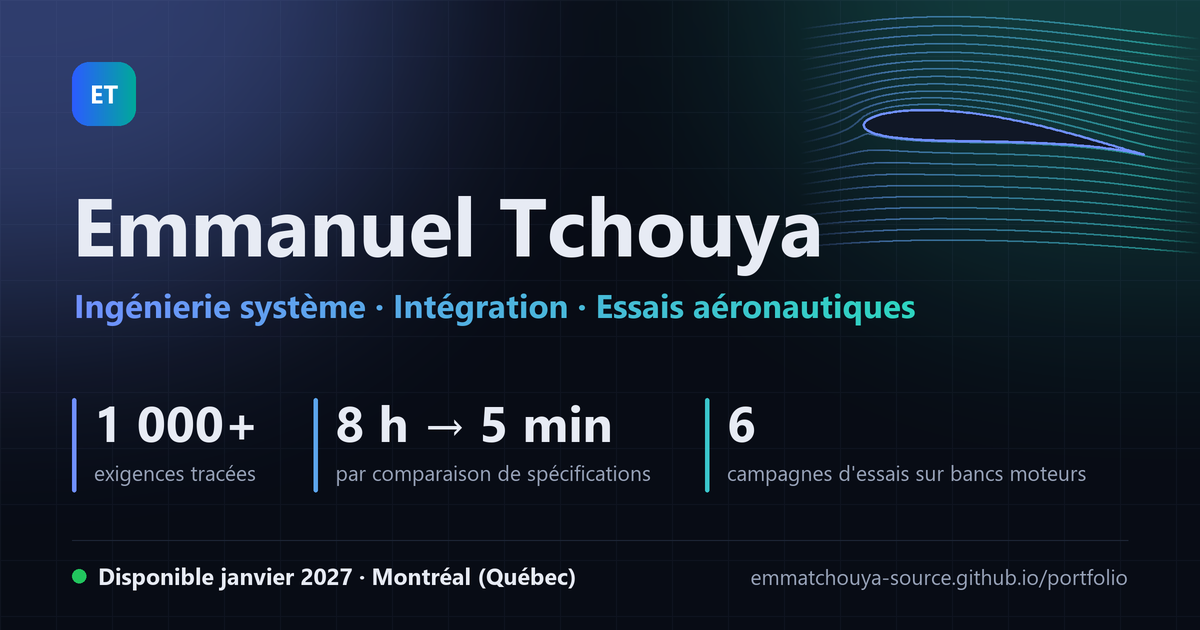
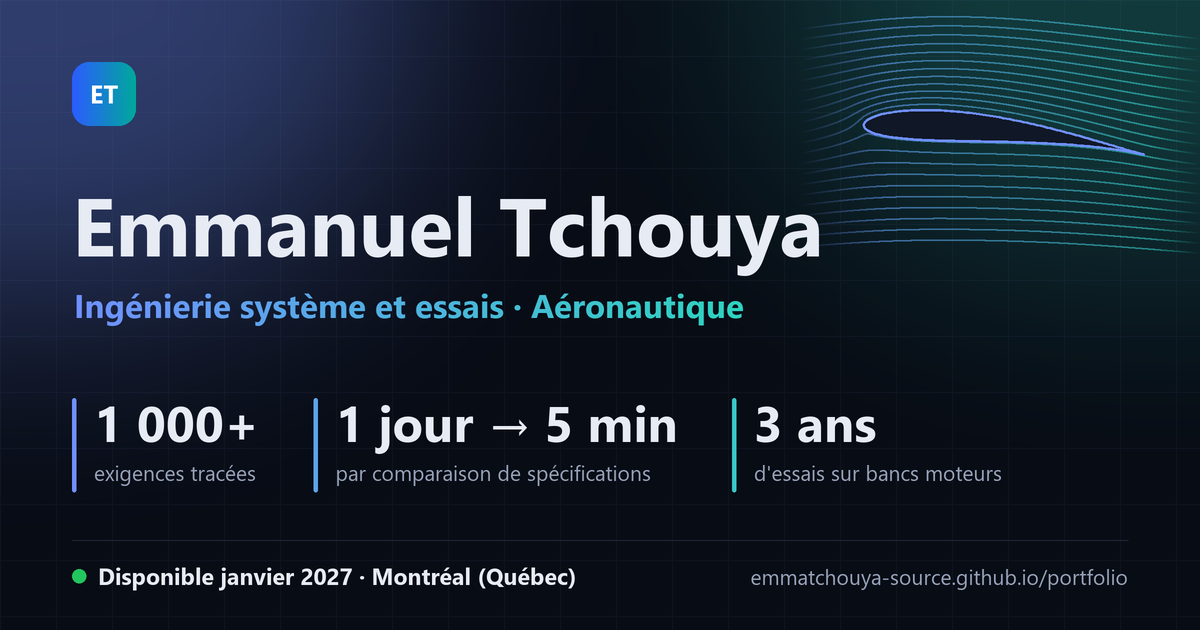
Align portfolio wording, figures and skills with the CV
- Title, intro, key figures, experience, skills, languages and status
  taken from CV_Tchouya_2026_v9
- TGD1 and 3DEXPERIENCE figures now match the CV (28 SRD requirements,
  162 requirements); supplier names removed
- Share image regenerated with the new title and figures

Changed region(s): [[0.2775, 0.6333, 0.8942, 0.7841], [0.3083, 0.4524, 0.7708, 0.5127]]

diff --git a/index.html b/index.html
@@ -3,10 +3,10 @@
 <head>
 <meta charset="utf-8">
 <meta name="viewport" content="width=device-width, initial-scale=1">
-<title>Emmanuel Tchouya — Ingénierie système et essais aéronautiques</title>
-<meta name="description" content="Emmanuel Tchouya — ingénierie système, intégration, exigences et essais aéronautiques. Maîtrise en génie aérospatial à l'ÉTS, Montréal. Disponible janvier 2027.">
-<meta property="og:title" content="Emmanuel Tchouya — Ingénierie système et essais aéronautiques">
-<meta property="og:description" content="Exigences, intégration et essais. Maîtrise en génie aérospatial (ÉTS), stage Flying Whales sur le dirigeable LCA60T.">
+<title>Emmanuel Tchouya — Ingénierie système et essais, aéronautique</title>
+<meta name="description" content="Emmanuel Tchouya — ingénierie système et essais en aéronautique. Diplômé en génie mécatronique, finissant à la maîtrise en génie aérospatial à l'ÉTS, Montréal. Disponible janvier 2027.">
+<meta property="og:title" content="Emmanuel Tchouya — Ingénierie système et essais, aéronautique">
+<meta property="og:description" content="Trois ans d'essais sur bancs moteurs, huit mois de stage chez Flying Whales sur le programme LCA60T, maîtrise en génie aérospatial à l'ÉTS.">
 <meta name="author" content="Emmanuel Tchouya">
 <link rel="canonical" href="https://emmatchouya-source.github.io/portfolio/">
 <meta property="og:type" content="website">
@@ -15,11 +15,11 @@
 <meta property="og:image" content="https://emmatchouya-source.github.io/portfolio/og.png">
 <meta property="og:image:width" content="1200">
 <meta property="og:image:height" content="630">
-<meta property="og:image:alt" content="Emmanuel Tchouya — ingénierie système, intégration et essais aéronautiques. Disponible janvier 2027 à Montréal.">
+<meta property="og:image:alt" content="Emmanuel Tchouya — ingénierie système et essais en aéronautique. Disponible janvier 2027 à Montréal.">
 <meta name="twitter:card" content="summary_large_image">
 <meta name="theme-color" content="#2b5cff">
 <link rel="icon" href="favicon.svg" type="image/svg+xml">
-<script type="application/ld+json">{"@context":"https://schema.org","@type":"Person","name":"Emmanuel Tchouya","url":"https://emmatchouya-source.github.io/portfolio/","image":"https://emmatchouya-source.github.io/portfolio/og.png","jobTitle":"Ingénierie système et essais aéronautiques","description":"Ingénieur en génie mécatronique, en fin de maîtrise en génie aérospatial à l'ÉTS. Exigences, intégration et essais aéronautiques.","address":{"@type":"PostalAddress","addressLocality":"Montréal","addressRegion":"QC","addressCountry":"CA"},"alumniOf":[{"@type":"CollegeOrUniversity","name":"École de technologie supérieure (ÉTS)"},{"@type":"CollegeOrUniversity","name":"École nationale supérieure polytechnique de Douala (ENSPD)"}],"knowsLanguage":["fr","en"],"knowsAbout":["Ingénierie système","Traçabilité des exigences","Vérification et validation","Essais aéronautiques","3DEXPERIENCE","Python"],"sameAs":["https://www.linkedin.com/in/emmanuel-tchouya","https://github.com/emmatchouya-source"]}</script>
+<script type="application/ld+json">{"@context":"https://schema.org","@type":"Person","name":"Emmanuel Tchouya","url":"https://emmatchouya-source.github.io/portfolio/","image":"https://emmatchouya-source.github.io/portfolio/og.png","jobTitle":"Ingénierie système et essais – Aéronautique","description":"Diplômé en génie mécatronique et finissant à la maîtrise en génie aérospatial à l'ÉTS, avec trois ans d'expérience en essais sur bancs moteurs et huit mois de stage chez Flying Whales sur le programme LCA60T.","address":{"@type":"PostalAddress","addressLocality":"Montréal","addressRegion":"QC","addressCountry":"CA"},"alumniOf":[{"@type":"CollegeOrUniversity","name":"École de technologie supérieure (ÉTS)"},{"@type":"CollegeOrUniversity","name":"École nationale supérieure polytechnique de Douala (ENSPD)"}],"knowsLanguage":["fr","en"],"knowsAbout":["Ingénierie système","Traçabilité des exigences","Vérification et validation","Essais aéronautiques","3DEXPERIENCE","Python"],"sameAs":["https://www.linkedin.com/in/emmanuel-tchouya","https://github.com/emmatchouya-source"]}</script>
 <script>document.documentElement.classList.add('js');try{var t=localStorage.getItem('pfTheme');if(t==='light'||t==='dark')document.documentElement.dataset.theme=t}catch(e){}</script>
 <link rel="preconnect" href="https://fonts.googleapis.com">
 <link rel="preconnect" href="https://fonts.gstatic.com" crossorigin>
@@ -57,8 +57,8 @@
       <div>
         <div class="badge reveal"><span class="pulse"></span><b>Disponible janvier 2027</b> · Montréal (Québec)</div>
         <h1 class="reveal" style="--d:.08s">Emmanuel Tchouya</h1>
-        <p class="role reveal" style="--d:.16s">Ingénierie système · Intégration · Essais aéronautiques</p>
-        <p class="lead reveal" style="--d:.24s">Je relie les exigences au matériel : écrire ce qu'un système doit faire, préparer l'essai qui le prouve, puis dépouiller les mesures pour conclure. En fin de maîtrise en génie aérospatial à l'ÉTS, après trois ans d'essais sur bancs moteurs et un stage sur le dirigeable cargo LCA60T chez Flying Whales.</p>
+        <p class="role reveal" style="--d:.16s">Ingénierie système et essais&nbsp;– Aéronautique</p>
+        <p class="lead reveal" style="--d:.24s">Je relie les exigences au matériel : écrire ce qu'un système doit faire, préparer l'essai qui le prouve, puis dépouiller les mesures pour conclure. Diplômé en génie mécatronique et finissant à la maîtrise en génie aérospatial à l'ÉTS, avec trois ans d'expérience en essais sur bancs moteurs et huit mois de stage chez Flying Whales sur le programme LCA60T.</p>
         <div class="btns reveal" style="--d:.32s">
           <a class="btn primary" href="#projets">Voir mes projets <svg class="arr" viewBox="0 0 24 24" fill="none" stroke="currentColor" stroke-width="2.2" stroke-linecap="round" stroke-linejoin="round"><path d="M5 12h14M13 6l6 6-6 6"/></svg></a>
           <a class="btn" href="contact.html">Me contacter</a>
@@ -100,10 +100,10 @@
     </div>
 
     <div class="stats">
-      <div class="stat reveal"><div class="n" data-count="1000" data-suffix="+">1 000+</div><div class="l">exigences tracées (TLAR, dirigeable, gondole)</div></div>
-      <div class="stat reveal" style="--d:.08s"><div class="n wide">8 h → 5 min</div><div class="l">pour comparer deux révisions d'une spécification, au lieu d'une journée</div></div>
-      <div class="stat reveal" style="--d:.16s"><div class="n" data-count="6">6</div><div class="l">campagnes d'essais sur bancs moteurs</div></div>
-      <div class="stat reveal" style="--d:.24s"><div class="n" data-count="13">13</div><div class="l">exigences du SRD évaluées sur la propulsion électrique</div></div>
+      <div class="stat reveal"><div class="n" data-count="1000" data-suffix="+">1 000+</div><div class="l">exigences gérées et tracées, matrices de conformité à jour</div></div>
+      <div class="stat reveal" style="--d:.08s"><div class="n wide">1 jour → 5 min</div><div class="l">pour comparer deux révisions d'une spécification (162 exigences)</div></div>
+      <div class="stat reveal" style="--d:.16s"><div class="n" data-count="3" data-suffix=" ans">3 ans</div><div class="l">d'expérience en essais sur bancs moteurs</div></div>
+      <div class="stat reveal" style="--d:.24s"><div class="n" data-count="28">28</div><div class="l">exigences du SRD vérifiées sur les essais TGD1 de propulsion</div></div>
     </div>
   </div>
 </header>
@@ -115,7 +115,7 @@
       <div class="about">
         <div class="text reveal">
           <p>Ingénieur en génie mécatronique de formation, je travaille à la jonction entre l'ingénierie système et le banc d'essai.</p>
-          <p>Au centre de R&amp;D de l'IUGET, au Cameroun, j'ai préparé et mené des campagnes d'essais sur bancs moteurs : instrumentation, étalonnage, acquisition et rapports. Chez Flying Whales, dans l'équipe de la gondole du LCA60T, j'ai tenu la traçabilité des exigences, analysé les essais au sol de la propulsion électrique et automatisé la comparaison de spécifications dans 3DEXPERIENCE.</p>
+          <p>Au centre de R&amp;D de l'IUGET, au Cameroun, j'ai assisté les ingénieurs dans la préparation et l'exécution des essais sur bancs moteurs : montage, instrumentation, acquisition, analyse des données et rapports d'essais. Chez Flying Whales, au département Airframe sur la gondole du LCA60T, j'ai analysé et validé les essais TGD1 du système de propulsion, géré la traçabilité de plus de 1 000 exigences et automatisé la comparaison de spécifications dans 3DEXPERIENCE.</p>
           <div class="values">
             <div class="value"><div class="ic"><svg viewBox="0 0 24 24" fill="none" stroke="currentColor" stroke-width="2" stroke-linecap="round" stroke-linejoin="round"><path d="M9 11l3 3 8-8"/><path d="M20 12v7a2 2 0 0 1-2 2H6a2 2 0 0 1-2-2V5a2 2 0 0 1 2-2h9"/></svg></div><div><b>Exigences vérifiables</b><span>Traçabilité, matrices de conformité, moyens de conformité CS-25 / FAA.</span></div></div>
             <div class="value"><div class="ic"><svg viewBox="0 0 24 24" fill="none" stroke="currentColor" stroke-width="2" stroke-linecap="round" stroke-linejoin="round"><path d="M3 3v18h18"/><path d="M7 15l4-4 3 3 5-6"/></svg></div><div><b>Essais de bout en bout</b><span>Préparation, instrumentation, acquisition, dépouillement et rapport.</span></div></div>
@@ -125,8 +125,9 @@
         <dl class="facts reveal" style="--d:.1s">
           <div><dt>Recherche</dt><dd>Poste en ingénierie système ou en essais</dd></div>
           <div><dt>Disponibilité</dt><dd>Janvier 2027 · Montréal (Québec)</dd></div>
-          <div><dt>Formation</dt><dd>M. Ing. génie aérospatial, ÉTS (hiver 2027)<br>Ingénieur génie mécatronique, ENSPD (2021)</dd></div>
-          <div><dt>Langues</dt><dd>Français (avancé) · anglais (TOEIC 900)</dd></div>
+          <div><dt>Formation</dt><dd>Maîtrise en génie aérospatial, ÉTS (hiver 2027)<br>Diplôme d'ingénieur en génie mécatronique, ENSPD (2021)</dd></div>
+          <div><dt>Langues</dt><dd>Français (avancé) · anglais (professionnel, B2)</dd></div>
+          <div><dt>Statut</dt><dd>Résident permanent du Canada</dd></div>
           <div><dt>Environnement</dt><dd>3DEXPERIENCE, CATIA, Python, Matlab, LabVIEW</dd></div>
         </dl>
       </div>
@@ -164,13 +165,13 @@
             </svg>
           </div>
           <div class="body">
-            <div class="top"><span class="ctx">Flying Whales · 2026</span><span class="metric">8 h → 5 min</span></div>
+            <div class="top"><span class="ctx">Flying Whales · 2026</span><span class="metric">1 jour → 5 min</span></div>
             <h3>Comparateur et synchronisation de spécifications 3DEXPERIENCE</h3>
             <ul class="psr">
               <li><b>Problème</b>Comparer deux révisions d'une spécification, produire les matrices et reporter les relectures Word dans 3DEXPERIENCE se faisait à la main : une journée par comparaison.</li>
               <li><b>Démarche</b>Application web et de bureau connectée aux API REST de 3DEXPERIENCE : différences mot à mot entre révisions ou exports Word, chapitres déplacés ou renommés, matrices de conformité, de vérification et de traçabilité générées aux modèles de l'entreprise.</li>
               <li><b>Écriture</b>Mise à jour de 3DEXPERIENCE depuis un Word relu : fusion à trois versions, simulation avant écriture, contrôle des modifications concurrentes, retour arrière automatique et annulation journalisée.</li>
-              <li><b>Résultat</b>Moins de 5 minutes par comparaison ; déjà utilisé sur 1 260 exigences ; environ 11 000 lignes, testées hors ligne contre un 3DEXPERIENCE simulé.</li>
+              <li><b>Résultat</b>Temps d'analyse réduit d'une journée à moins de 5 minutes pour 162 exigences, avec rapports Excel des écarts ; outil testé hors ligne contre un 3DEXPERIENCE simulé.</li>
             </ul>
             <div class="tags"><span class="tag">Python</span><span class="tag">Flask</span><span class="tag">API REST</span><span class="tag">Docker</span><span class="tag">PySide6</span><span class="tag">openpyxl</span><span class="tag">3DEXPERIENCE</span></div>
             <p class="conf-note"><svg viewBox="0 0 24 24" fill="none" stroke="currentColor" stroke-width="2" stroke-linecap="round" stroke-linejoin="round" aria-hidden="true"><rect x="4" y="11" width="16" height="10" rx="2"/><path d="M8 11V7a4 4 0 0 1 8 0v4"/></svg><span><b>Projet confidentiel.</b> Outil interne développé pendant mon stage chez Flying Whales : le code, les captures d'écran et les données ne sont pas publiés. Seuls le principe et les résultats sont présentés ici.</span></p>
@@ -218,14 +219,14 @@
             </svg>
           </div>
           <div class="body">
-            <div class="top"><span class="ctx">Flying Whales · 2026</span><span class="metric">13 exigences</span></div>
-            <h3>Essais au sol de la propulsion électrique</h3>
+            <div class="top"><span class="ctx">Flying Whales · 2026</span><span class="metric">28 exigences SRD</span></div>
+            <h3>Analyse et validation des essais TGD1 du système de propulsion</h3>
             <ul class="psr">
-              <li><b>Problème</b>Conclure sur la chaîne de propulsion du LCA60T : banc AKIRA, onduleur Brightloop, moteur Evolito.</li>
-              <li><b>Démarche</b>Traitement en Python de 38 fichiers de mesures, confrontation au SRD.</li>
-              <li><b>Résultat</b>13 exigences évaluées et des recommandations pour la campagne suivante.</li>
+              <li><b>Problème</b>Analyser et valider les essais au sol TGD1 du système de propulsion du LCA60T, au regard des exigences du SRD.</li>
+              <li><b>Démarche</b>Traitement de 3,5 h de données (125 000 échantillons, 6 grandeurs physiques) sous Python et MATLAB, identification de paramètres par moindres carrés, analyse des causes racines de 6 anomalies, jumeau numérique du banc d'essais.</li>
+              <li><b>Résultat</b>28 exigences du SRD vérifiées, rapport d'essais de 85 pages en anglais, suivi des RID et recommandations pour TGD2.</li>
             </ul>
-            <div class="tags"><span class="tag">Python</span><span class="tag">pandas</span><span class="tag">V&amp;V</span></div>
+            <div class="tags"><span class="tag">Python</span><span class="tag">MATLAB</span><span class="tag">Moindres carrés</span><span class="tag">Analyse des causes racines</span><span class="tag">V&amp;V</span></div>
             <p class="conf-note"><svg viewBox="0 0 24 24" fill="none" stroke="currentColor" stroke-width="2" stroke-linecap="round" stroke-linejoin="round" aria-hidden="true"><rect x="4" y="11" width="16" height="10" rx="2"/><path d="M8 11V7a4 4 0 0 1 8 0v4"/></svg><span><b>Projet confidentiel.</b> Analyse réalisée pendant mon stage chez Flying Whales : le rapport d'essais, les mesures et les courbes ne sont pas publiés. Seuls le principe et les résultats sont présentés ici.</span></p>
           </div>
         </article>
@@ -303,11 +304,11 @@
           </div>
           <div class="body">
             <div class="top"><span class="ctx">ENSPD · 2020 – 2021</span><span class="metric">8 kg · 10 km</span></div>
-            <h3>Drone hexacoptère</h3>
+            <h3>Drone hexacoptère à usage militaire</h3>
             <ul class="psr">
-              <li><b>Problème</b>Concevoir un drone capable d'emporter 8 kg à 10 km et jusqu'à 2 000 m.</li>
-              <li><b>Démarche</b>Châssis, intégration de la propulsion, lois de commande.</li>
-              <li><b>Résultat</b>Drone fabriqué et testé au sol puis en vol.</li>
+              <li><b>Problème</b>Concevoir et construire un hexacoptère pour l'armée : 8 kg de charge utile, 10 km de rayon d'action, 2 000 m d'altitude maximale.</li>
+              <li><b>Démarche</b>Fabrication du châssis, intégration de la propulsion, programmation des lois de commande.</li>
+              <li><b>Résultat</b>Essais réussis.</li>
             </ul>
             <div class="tags"><span class="tag">Conception</span><span class="tag">Commande</span><span class="tag">Essais en vol</span></div>
           </div>
@@ -360,56 +361,56 @@
             <tr data-moc="E" data-live="0">
               <td class="ref">C-04</td>
               <th scope="row">Je conçois, je fabrique et je fais voler.</th>
-              <td>Drone hexacoptère dimensionné pour 8 kg, 10 km et 2 000 m : fabriqué, testé au sol puis en vol.<small>ENSPD · 2020 – 2021</small></td>
+              <td>Hexacoptère conçu et construit pour l'armée : 8 kg de charge utile, 10 km de rayon d'action, 2 000 m d'altitude maximale ; essais réussis.<small>ENSPD · 2020 – 2021</small></td>
               <td><span class="moc e">Essai</span></td>
               <td class="acc"><a href="#p-hexa">Étude de cas</a></td>
             </tr>
             <tr data-moc="I" data-live="0">
               <td class="ref">C-05</td>
               <th scope="row">Je tiens la traçabilité des exigences d'un programme aéronautique.</th>
-              <td>Plus de 1 000 exigences tracées (TLAR, dirigeable, gondole) et matrices de conformité du LCA60T.<small>Flying Whales · 2026</small></td>
+              <td>Gestion et traçabilité de plus de 1 000 exigences, avec mise à jour des matrices de conformité.<small>Flying Whales · 2026</small></td>
               <td><span class="moc i">Inspection</span></td>
               <td class="acc"><a href="#parcours">Parcours</a><small>Confidentiel · détaillé en entretien</small></td>
             </tr>
             <tr data-moc="I" data-live="0">
               <td class="ref">C-06</td>
               <th scope="row">Je traduis un règlement en critères vérifiables.</th>
-              <td>Note bilingue : critères de vibration des écrans cockpit et de distorsion du pare-brise, d'après la CS-25 et les guides FAA.<small>Flying Whales · 2026</small></td>
+              <td>Analyse réglementaire : critères de vibration des écrans du cockpit et de distorsion optique du pare-brise, sur la base de la CS-25 et des recommandations FAA.<small>Flying Whales · 2026</small></td>
               <td><span class="moc i">Inspection</span></td>
               <td class="acc"><a href="#parcours">Parcours</a><small>Confidentiel · détaillé en entretien</small></td>
             </tr>
             <tr data-moc="E" data-live="0">
               <td class="ref">C-07</td>
-              <th scope="row">Je mène une campagne d'essais de bout en bout.</th>
-              <td>6 campagnes sur bancs moteurs : instrumentation, étalonnage, acquisition, dépouillement, 6 rapports d'essais.<small>CRDI, Douala · 2021 – 2024</small></td>
+              <th scope="row">Je prépare et j'exécute des essais sur banc.</th>
+              <td>Trois ans d'essais sur bancs moteurs : montage, instrumentation, acquisition, analyse des données, calibrage et rapports d'essais.<small>CRDI, Douala · 2020 – 2024</small></td>
               <td><span class="moc e">Essai</span></td>
               <td class="acc"><a href="#parcours">Parcours</a><small>Détaillé en entretien</small></td>
             </tr>
             <tr data-moc="A" data-live="0">
               <td class="ref">C-08</td>
               <th scope="row">Je conclus à partir des mesures.</th>
-              <td>38 fichiers de mesures traités en Python, 13 exigences du SRD évaluées, recommandations pour la campagne suivante.<small>Flying Whales · 2026</small></td>
+              <td>Essais TGD1 : 3,5 h de données traitées sous Python et MATLAB, 28 exigences du SRD vérifiées, causes racines de 6 anomalies, rapport de 85 pages.<small>Flying Whales · 2026</small></td>
               <td><span class="moc a">Analyse</span></td>
               <td class="acc"><a href="#p-essais">Étude de cas</a><small>Confidentiel · détaillé en entretien</small></td>
             </tr>
             <tr data-moc="D" data-live="0">
               <td class="ref">C-09</td>
               <th scope="row">J'outille ce qui se répète.</th>
-              <td>Comparateur 3DEXPERIENCE : de 8 h à 5 min par comparaison, utilisé sur 1 260 exigences, environ 11 000 lignes testées hors ligne.<small>Flying Whales · 2026</small></td>
+              <td>Outil d'automatisation 3DEXPERIENCE : comparaison de révisions de spécifications réduite d'une journée à moins de 5 minutes pour 162 exigences.<small>Flying Whales · 2026</small></td>
               <td><span class="moc d">Démonstration</span></td>
               <td class="acc"><a href="#p-3dx">Étude de cas</a><small>Confidentiel · détaillé en entretien</small></td>
             </tr>
             <tr data-moc="I" data-live="0">
               <td class="ref">C-10</td>
               <th scope="row">Je suis un fournisseur sur ses livrables.</th>
-              <td>Suivi hebdomadaire du partenaire Delastek sur les livrables du cockpit.<small>Flying Whales · 2026</small></td>
+              <td>Suivi technique du partenaire Delastek : livrables du cockpit, écarts de conception et clarification des exigences en réunions hebdomadaires.<small>Flying Whales · 2026</small></td>
               <td><span class="moc i">Inspection</span></td>
               <td class="acc"><a href="#parcours">Parcours</a><small>Détaillé en entretien</small></td>
             </tr>
             <tr data-moc="I" data-live="0">
               <td class="ref">C-11</td>
               <th scope="row">Je travaille en français et en anglais.</th>
-              <td>TOEIC 900 ; note technique bilingue rédigée chez Flying Whales.</td>
+              <td>Français avancé, anglais professionnel (B2) ; rapport d'essais de 85 pages rédigé en anglais chez Flying Whales.</td>
               <td><span class="moc i">Inspection</span></td>
               <td class="acc">Vérifiable en entretien</td>
             </tr>
@@ -425,18 +426,18 @@
       <div class="sec-head reveal"><span class="eyebrow">Compétences</span><h2>Boîte à outils</h2></div>
       <div class="skills">
         <div class="skill reveal"><div class="head"><div class="ic"><svg viewBox="0 0 24 24" fill="none" stroke="currentColor" stroke-width="2" stroke-linecap="round" stroke-linejoin="round"><rect x="3" y="3" width="7" height="7" rx="1"/><rect x="14" y="3" width="7" height="7" rx="1"/><rect x="8.5" y="14" width="7" height="7" rx="1"/><path d="M6.5 10v2h11v-2M12 12v2"/></svg></div><h3>Ingénierie système et certification</h3></div>
-          <div class="tags"><span class="tag">Traçabilité des exigences</span><span class="tag">Matrices V&amp;V</span><span class="tag">CS-25</span><span class="tag">AC FAA</span><span class="tag">MIL / SAE</span><span class="tag">Gestion de configuration</span><span class="tag">Suivi fournisseurs</span><span class="tag">8D</span></div></div>
+          <div class="tags"><span class="tag">Traçabilité des exigences</span><span class="tag">Matrices de conformité et de vérification (V&amp;V)</span><span class="tag">Moyens de conformité : SC GAS, CS-25, AC FAA, MIL, SAE</span><span class="tag">Gestion de configuration et des changements</span><span class="tag">Suivi fournisseurs</span><span class="tag">Méthodologie 8D</span></div></div>
         <div class="skill reveal" style="--d:.06s"><div class="head"><div class="ic"><svg viewBox="0 0 24 24" fill="none" stroke="currentColor" stroke-width="2" stroke-linecap="round" stroke-linejoin="round"><path d="M3 3v18h18"/><path d="M7 15l4-4 3 3 5-6"/></svg></div><h3>Essais et analyse de données</h3></div>
-          <div class="tags"><span class="tag">Essais sur banc</span><span class="tag">Instrumentation</span><span class="tag">Acquisition</span><span class="tag">CAN</span><span class="tag">numpy / pandas / scipy</span><span class="tag">Matlab</span><span class="tag">Rapports d'essais</span></div></div>
+          <div class="tags"><span class="tag">Préparation d'essais sur banc</span><span class="tag">Instrumentation</span><span class="tag">Acquisition</span><span class="tag">Données CAN</span><span class="tag">Dépouillement et statistiques</span><span class="tag">Python : NumPy, pandas, SciPy, Matplotlib</span><span class="tag">MATLAB</span><span class="tag">Rapports d'essais</span></div></div>
         <div class="skill reveal" style="--d:.12s"><div class="head"><div class="ic"><svg viewBox="0 0 24 24" fill="none" stroke="currentColor" stroke-width="2" stroke-linecap="round" stroke-linejoin="round"><path d="M17.8 19.2 16 11l3.5-3.5C21 6 21.5 4 21 3c-1-.5-3 0-4.5 1.5L13 8 4.8 6.2c-.5-.1-.9.1-1.1.5l-.3.5c-.2.5-.1 1 .3 1.3L9 12l-2 3H4l-1 1 3 2 2 3 1-1v-3l3-2 3.5 5.3c.3.4.8.5 1.300.3l.5-.2c.4-.3.6-.7.5-1.2z"/></svg></div><h3>Aéronautique</h3></div>
-          <div class="tags"><span class="tag">Turbofans, turbopropulseurs</span><span class="tag">Propulsion électrique</span><span class="tag">Performance avion</span><span class="tag">Aérodynamique</span><span class="tag">Structures (FEA)</span><span class="tag">Avionique</span></div></div>
+          <div class="tags"><span class="tag">Turbofans, turbopropulseurs</span><span class="tag">Propulsion électrique</span><span class="tag">Performance avion</span><span class="tag">Aérodynamique</span><span class="tag">Structures (FEA)</span><span class="tag">Systèmes avioniques et embarqués : contrôle-commande, carburant, ECS</span></div></div>
         <div class="skill reveal"><div class="head"><div class="ic"><svg viewBox="0 0 24 24" fill="none" stroke="currentColor" stroke-width="2" stroke-linecap="round" stroke-linejoin="round"><path d="M16 18l6-6-6-6M8 6l-6 6 6 6"/></svg></div><h3>Logiciel et automatisation</h3></div>
-          <div class="tags"><span class="tag">Python (Flask, PySide6)</span><span class="tag">API REST</span><span class="tag">C / C++</span><span class="tag">C#</span><span class="tag">Fortran</span><span class="tag">VHDL</span><span class="tag">Git / GitLab</span><span class="tag">Docker</span></div></div>
+          <div class="tags"><span class="tag">Python : API REST, Flask, PySide6</span><span class="tag">C / C++</span><span class="tag">C#</span><span class="tag">Fortran</span><span class="tag">VHDL</span><span class="tag">Git / GitLab</span><span class="tag">Docker</span><span class="tag">Scripts d'interfaçage 3DEXPERIENCE et SolidWorks</span></div></div>
         <div class="skill reveal" style="--d:.06s"><div class="head"><div class="ic"><svg viewBox="0 0 24 24" fill="none" stroke="currentColor" stroke-width="2" stroke-linecap="round" stroke-linejoin="round"><path d="M12 2 3 7l9 5 9-5-9-5Z"/><path d="m3 17 9 5 9-5M3 12l9 5 9-5"/></svg></div><h3>PLM, CAO et automatismes</h3></div>
-          <div class="tags"><span class="tag">3DEXPERIENCE</span><span class="tag">CATIA V5 / V6</span><span class="tag">TeamCenter – NX</span><span class="tag">SolidWorks</span><span class="tag">Fusion 360</span><span class="tag">LabVIEW</span><span class="tag">STM32</span><span class="tag">STEP 7</span></div></div>
+          <div class="tags"><span class="tag">3DEXPERIENCE</span><span class="tag">CATIA V5 / V6</span><span class="tag">Teamcenter – NX</span><span class="tag">SolidWorks</span><span class="tag">Fusion 360</span><span class="tag">LabVIEW</span><span class="tag">STM32CubeIDE</span><span class="tag">Arduino</span><span class="tag">SIMATIC STEP 7</span><span class="tag">Automation Studio</span><span class="tag">Proteus</span><span class="tag">Mathcad</span></div></div>
         <div class="skill reveal" style="--d:.12s"><div class="head"><div class="ic"><svg viewBox="0 0 24 24" fill="none" stroke="currentColor" stroke-width="2" stroke-linecap="round" stroke-linejoin="round"><path d="M12 3l1.9 5.1L19 10l-5.1 1.9L12 17l-1.9-5.1L5 10l5.1-1.9z"/><path d="M19 17l.7 1.8 1.8.7-1.8.7L19 22l-.7-1.8-1.8-.7 1.8-.7z"/></svg></div><h3>IA générative</h3></div>
-          <div class="tags"><span class="tag">Claude</span><span class="tag">ChatGPT</span><span class="tag">Copilot</span></div>
-          <p>Pour coder, analyser des données et rédiger, avec une vérification systématique de ce qu'ils produisent.</p></div>
+          <div class="tags"><span class="tag">Claude Code</span><span class="tag">Codex</span><span class="tag">Copilot</span></div>
+          <p>Pour l'aide à l'ingénierie, avec une vérification systématique des résultats et le respect de la confidentialité des données.</p></div>
       </div>
     </div>
   </section>
@@ -448,12 +449,12 @@
         <div class="reveal">
           <h3 class="col-title">Expérience</h3>
           <ol class="timeline">
-            <li><div class="when">Mai – déc. 2026</div><h4>Stagiaire en ingénierie système et intégration PLM</h4><div class="where">Flying Whales, Montréal · Gondole du dirigeable LCA60T</div>
-              <ul><li>Traçabilité de plus de 1 000 exigences et matrices de conformité.</li><li>Analyse des essais au sol de la chaîne de propulsion électrique.</li><li>Note bilingue de critères de vibration des écrans cockpit et de distorsion du pare-brise (CS-25, guides FAA).</li><li>Suivi hebdomadaire du partenaire Delastek sur les livrables du cockpit.</li></ul></li>
+            <li><div class="when">Mai – déc. 2026</div><h4>Stagiaire en ingénierie système et intégration PLM</h4><div class="where">Flying Whales, Montréal · Département Airframe, gondole LCA60T</div>
+              <ul><li>Analyse et validation des essais TGD1 du système de propulsion : 3,5 h de données (125 000 échantillons, 6 grandeurs physiques) sous Python et MATLAB, identification de paramètres par moindres carrés, vérification de 28 exigences SRD, causes racines de 6 anomalies.</li><li>Rapport d'essais de 85 pages en anglais, suivi des RID, recommandations pour TGD2 et jumeau numérique du banc d'essais.</li><li>Outil d'automatisation PLM (3DEXPERIENCE) : comparaison de révisions de spécifications et rapports Excel des écarts, d'une journée à moins de 5 minutes pour 162 exigences.</li><li>Automatisation des mises à jour d'exigences dans 3DEXPERIENCE depuis des documents Word et des matrices Excel, avec vérification des données et retour arrière.</li><li>Gestion et traçabilité de plus de 1 000 exigences, mise à jour des matrices de conformité.</li><li>Analyse réglementaire : critères de vibration des écrans du cockpit et de distorsion optique du pare-brise (CS-25, recommandations FAA).</li><li>Suivi technique et coordination avec le partenaire Delastek sur les livrables du cockpit.</li></ul></li>
             <li><div class="when">2021 – 2024</div><h4>Assistant R&amp;D</h4><div class="where">Centre de R&amp;D de l'IUGET (CRDI), Douala, Cameroun</div>
-              <ul><li>6 campagnes d'essais sur bancs moteurs préparées et menées.</li><li>Instrumentation : vitesse, couple, poussée, températures, pression d'huile, vibrations, courants et tensions.</li><li>Étalonnage, vérification des chaînes d'acquisition, 6 rapports d'essais.</li></ul></li>
+              <ul><li>Préparation et exécution des essais sur bancs moteurs, en appui aux ingénieurs.</li><li>Montage et instrumentation des prototypes et systèmes à tester.</li><li>Collecte, organisation et analyse des données expérimentales ; rédaction des rapports d'essais.</li><li>Maintenance et calibrage des équipements de laboratoire et des bancs d'essais.</li><li>Simulation et modélisation sous supervision (SolidWorks, CATIA, MATLAB), dans le respect des normes de sécurité et des procédures de certification.</li></ul></li>
             <li><div class="when">2020 – 2021</div><h4>Stagiaire R&amp;D</h4><div class="where">CRDI, Douala, Cameroun</div>
-              <ul><li>Essais de moteurs et de systèmes embarqués ; 2 rapports d'essais co-rédigés.</li></ul></li>
+              <ul><li>Préparation et réalisation d'essais sur moteurs et systèmes embarqués : montage des dispositifs, installation des instruments de mesure, acquisition des données.</li><li>Inspection et maintenance préventive des bancs d'essais ; contribution à 2 rapports d'essais.</li></ul></li>
           </ol>
         </div>
         <div class="reveal" style="--d:.1s">
@@ -461,7 +462,7 @@
           <ol class="timeline">
             <li><div class="when">Été 2025 – hiver 2027</div><h4>Maîtrise en génie aérospatial</h4><div class="where">École de technologie supérieure (ÉTS), Montréal</div></li>
             <li><div class="when">2021</div><h4>Diplôme d'ingénieur en génie mécatronique</h4><div class="where">École nationale supérieure polytechnique de Douala (ENSPD)</div></li>
-            <li><div class="when">2018</div><h4>Licence de physique</h4><div class="where">Université de Ngaoundéré, Cameroun</div></li>
+            <li><div class="when">2018</div><h4>Licence de physique</h4><div class="where">Université de Ngaoundéré, Cameroun (équivalence d'un baccalauréat en physique au Québec)</div></li>
           </ol>
         </div>
       </div>

diff --git a/contact.html b/contact.html
@@ -4,10 +4,10 @@
 <meta charset="utf-8">
 <meta name="viewport" content="width=device-width, initial-scale=1">
 <title>Contact — Emmanuel Tchouya</title>
-<meta name="description" content="Contacter Emmanuel Tchouya — ingénierie système et essais aéronautiques, Montréal. Disponible janvier 2027.">
+<meta name="description" content="Contacter Emmanuel Tchouya — ingénierie système et essais en aéronautique, Montréal. Disponible janvier 2027.">
 <link rel="canonical" href="https://emmatchouya-source.github.io/portfolio/contact.html">
 <meta property="og:title" content="Contact — Emmanuel Tchouya">
-<meta property="og:description" content="Ingénierie système et essais aéronautiques, Montréal. Disponible janvier 2027.">
+<meta property="og:description" content="Ingénierie système et essais en aéronautique, Montréal. Disponible janvier 2027.">
 <meta property="og:image" content="https://emmatchouya-source.github.io/portfolio/og.png">
 <meta name="twitter:card" content="summary_large_image">
 <meta name="theme-color" content="#2b5cff">
@@ -81,7 +81,7 @@
           <div class="ic"><svg viewBox="0 0 24 24" fill="currentColor"><path d="M12 2a10 10 0 0 0-3.16 19.49c.5.09.68-.22.68-.48v-1.7c-2.78.6-3.37-1.34-3.37-1.34-.45-1.16-1.11-1.47-1.11-1.47-.91-.62.07-.6.07-.6 1 .07 1.53 1.03 1.53 1.03.9 1.52 2.34 1.08 2.91.83.09-.65.35-1.08.63-1.33-2.22-.25-4.55-1.11-4.55-4.94 0-1.09.39-1.98 1.03-2.68-.1-.25-.45-1.27.1-2.65 0 0 .84-.27 2.75 1.02a9.5 9.5 0 0 1 5 0c1.91-1.29 2.75-1.02 2.75-1.02.55 1.38.2 2.4.1 2.65.64.7 1.03 1.59 1.03 2.68 0 3.84-2.34 4.68-4.57 4.93.36.31.68.92.68 1.85v2.74c0 .27.18.58.69.48A10 10 0 0 0 12 2Z"/></svg></div>
           <div><b>GitHub</b><span>github.com/emmatchouya-source</span></div>
         </a>
-        <div class="avail"><b>Disponible dès janvier 2027</b>Basé à Montréal (Québec) · français et anglais.</div>
+        <div class="avail"><b>Disponible dès janvier 2027</b>Montréal (Québec) · résident permanent du Canada · français et anglais.</div>
       </div>
     </div>
   </div>

diff --git a/style.css b/style.css
@@ -424,8 +424,8 @@ footer .meta{display:flex;flex-wrap:wrap;gap:4px 18px;align-items:center}
 .flow-toggle{font:inherit;font-size:12.5px;font-weight:600;color:var(--accent);background:none;border:0;padding:0 14px 6px;cursor:pointer;text-align:left}
 .flow-toggle:hover{text-decoration:underline}
 .flow-more[hidden]{display:none}
-.stat .n.wide{white-space:nowrap}
-@media (max-width:760px){.stat .n.wide{font-size:20px;line-height:1.5}}
+.stat .n.wide{white-space:nowrap;font-size:30px;line-height:1.35}
+@media (max-width:760px){.stat .n.wide{font-size:17px;line-height:1.75}}
 
 /* impression : une version papier lisible, sans décor ni animation */
 @media print{

diff --git a/scripts/build_og.py b/scripts/build_og.py
@@ -131,11 +131,11 @@ def main():
     d.text(p(104, 93), 'ET', font=font(25, True), fill=(255, 255, 255), anchor='mm')
 
     d.text(p(72, 168), 'Emmanuel Tchouya', font=font(82, True), fill=INK)
-    gradient_text(img, tuple(p(74, 282)), 'Ingénierie système · Intégration · Essais aéronautiques',
+    gradient_text(img, tuple(p(74, 282)), 'Ingénierie système et essais · Aéronautique',
                   font(33, True), BLUE, TEAL)
 
-    stats = [('1 000+', 'exigences tracées'), ('8 h → 5 min', 'par comparaison de spécifications'),
-             ('6', "campagnes d'essais sur bancs moteurs")]
+    stats = [('1 000+', 'exigences tracées'), ('1 jour → 5 min', 'par comparaison de spécifications'),
+             ('3 ans', "d'essais sur bancs moteurs")]
     x = 72
     for n, label in stats:
         fn, fl = font(50, True), font(21)
